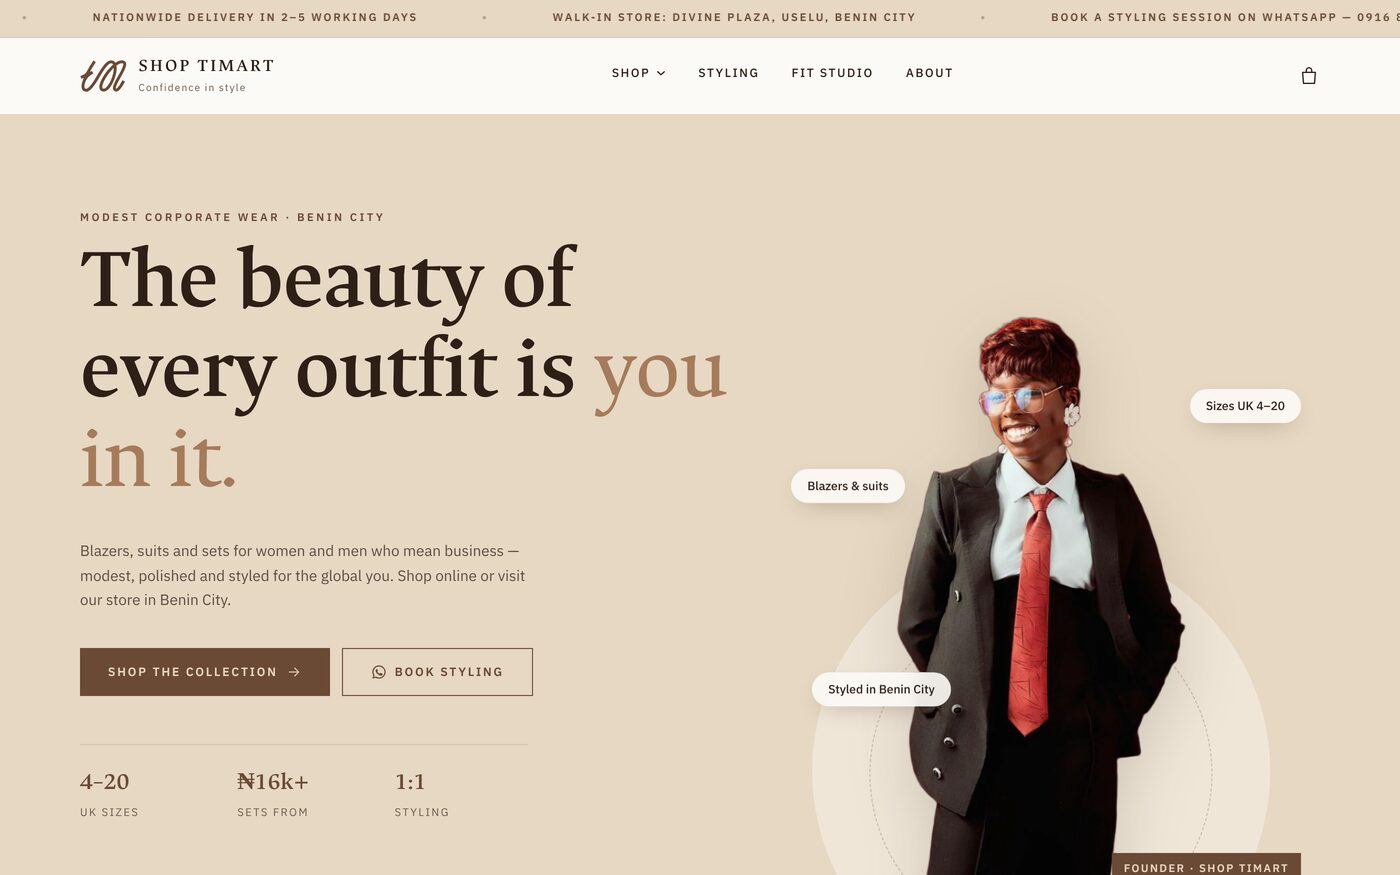
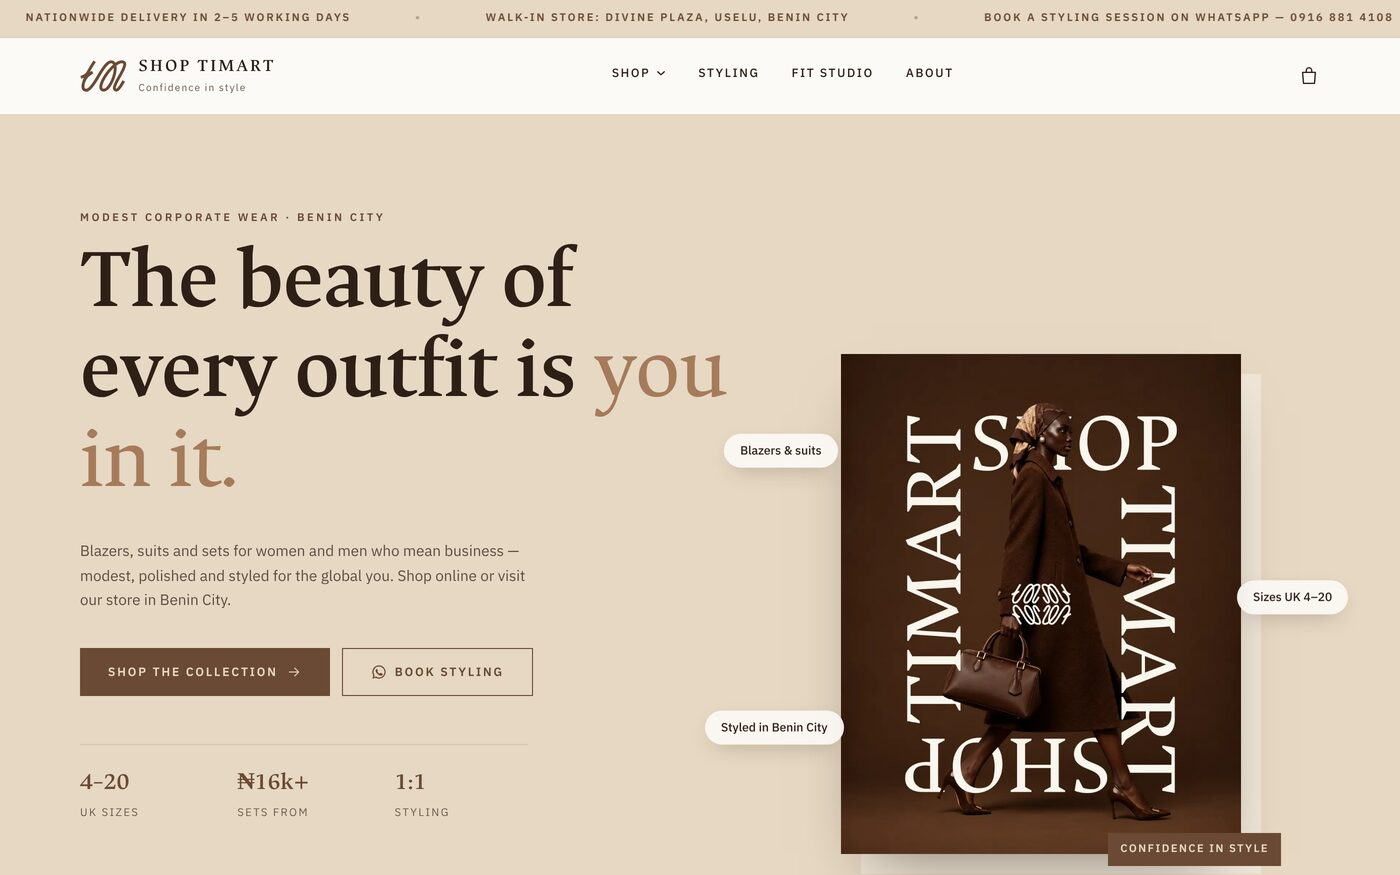
Shop Timart case study: brand photography (#13)
Claude-Session: https://claude.ai/code/session_01Sx8cNabtNiNLCdWcf4Fu39

diff --git a/lib/seed.ts b/lib/seed.ts
@@ -341,6 +341,7 @@ export const SEED: Content = {
         },
         "shots": [
           "stm-home",
+          "stm-lookbook",
           "stm-product",
           "stm-fit",
           "stm-shop",
@@ -349,6 +350,7 @@ export const SEED: Content = {
           "stm-sales",
           "stm-cms",
           "stm-care",
+          "stm-details",
           "stm-coupons",
           "stm-orders"
         ],
@@ -382,7 +384,7 @@ export const SEED: Content = {
         ],
         "link": "https://shop-timart.com",
         "linkText": "Visit Shop Timart",
-        "note": "The screens show demo data: made-up customers and orders, not the store's records. The founder's portrait was supplied by the client.",
+        "note": "The screens show demo data: made-up customers and orders, not the store's records. The founder's portrait, lookbook photos and packaging mockups were supplied by the client.",
         "case": {
           "problem": "The owner sells and styles from a walk-in store in Benin City, and everything else happened in DMs: a TikTok video, a price in the caption, a WhatsApp message to order. Customers outside the city had to guess how a blazer cut for a size 8 model would sit on a size 16. Every new piece meant another round of photos and another thread of questions about fit, colour and price.",
           "features": [
@@ -430,6 +432,11 @@ export const SEED: Content = {
               "title": "A wardrobe that moves",
               "body": "The footer is a rail of hanging garments that glides past, with bags, dress forms and a mirror moving more slowly in front. It pauses on hover. Elsewhere, headlines reveal word by word and outfits sway like they're on a hanger.",
               "shot": "stmf-wardrobe"
+            },
+            {
+              "title": "The brand's own photography",
+              "body": "When the brand's lookbook photos and packaging mockups arrived, they went in as content the owner controls. The hero shows a lookbook poster with the store's three promises floating beside it, a lookbook section pairs editorial photos with a shop link, and the About page shows the monogram on tags, ribbon, gift cards and bags. The hero takes a framed photo or a transparent cut-out, so the founder's portrait can come back with one setting.",
+              "shot": "stmf-hero"
             }
           ],
           "process": [

diff --git a/lib/content.ts b/lib/content.ts
@@ -82,7 +82,7 @@ function offerNewProjects(doc: Content): Content {
    the stored copy with the seed's once, in the same position. A project the
    author deleted is not added back. work.refreshed remembers the number
    applied, so later edits in the admin are kept until the next bump. */
-const REFRESHED_IN_CODE: Record<string, number> = { "shop-timart": 1 };
+const REFRESHED_IN_CODE: Record<string, number> = { "shop-timart": 2 };
 
 function refreshProjects(doc: Content): Content {
   const done = doc.work.refreshed ?? {};
